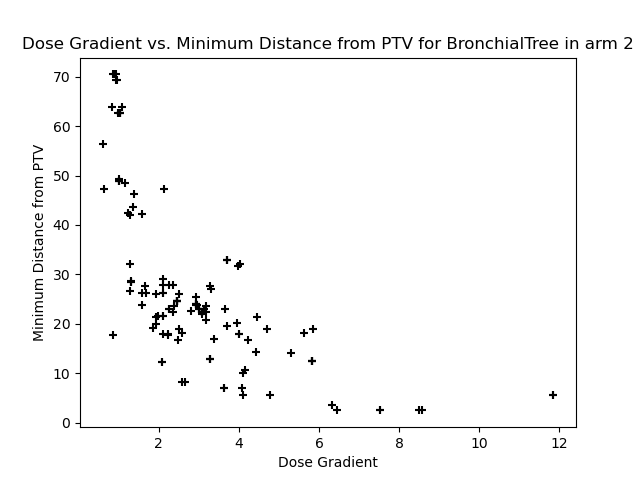
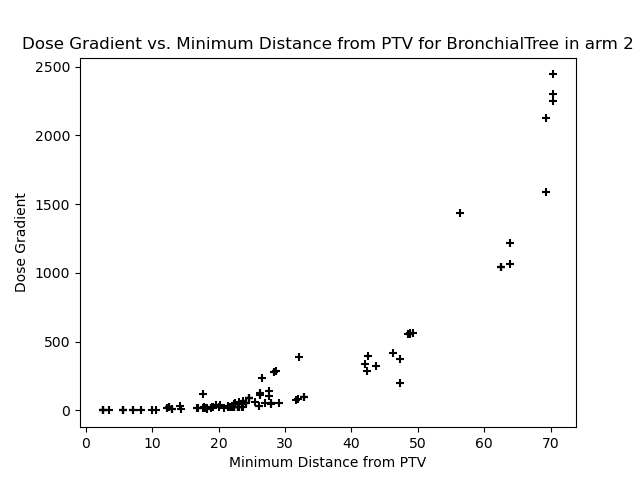
switched mdptv_dg_study axis

diff --git a/data_processing_programs/sspaner_general_hists.py b/data_processing_programs/sspaner_general_hists.py
@@ -11,17 +11,23 @@ file_names_dict = {"V2.0 dosevol":"V2D", "V5.0 dosevol":"V5D","V2.0 dosevol/volu
 final_super_folder = "organ_hists/dosevol"
 for (organ,arm), df_organ in all_data_df.groupby(["Organ_Clean","arm"]):
     for column in columns:
+        if column in ["V2.0 dosevol/volume", "V5.0 dosevol/volume", "V10.0 dosevol/volume"]:
+            continue
         try:
 
             try:
                 Path(f"{final_super_folder}/{organ}").mkdir()
                 print(f"Created {final_super_folder}/{organ}")
             except FileExistsError:
-                print(f"{final_super_folder}/{organ} already exists.")
+                #print(f"{final_super_folder}/{organ} already exists.")
                 pass
             
             planned_data = df_organ.loc[df_organ["Dose_Type"] == "Planned", column].dropna()
             delivered_data = df_organ.loc[df_organ["Dose_Type"] == "Delivered", column].dropna()
+
+            print(f"{organ}, {arm}, {column}, {(planned_data.mean() - delivered_data.mean()):.3f}")
+            continue
+
             fig, ax = plt.subplots()
 
             ax.hist(planned_data, histtype='step', edgecolor='green', label='Planned',density=True)
@@ -44,7 +50,7 @@ for (organ,arm), df_organ in all_data_df.groupby(["Organ_Clean","arm"]):
                 f"Std Dev = {std:.4f}\n"
                 f"Min = {min_val:.4f}\n"
                 f"Max = {max_val:.4f}\n"
-                f"M_Diff = {planned_data.mean() - delivered_data.mean()}"
+                f"M_Diff = {(planned_data.mean() - delivered_data.mean()):3f}"
             )
 
             ax.text(

diff --git a/data_processing_programs/sspaner_mdptv_dg.py b/data_processing_programs/sspaner_mdptv_dg.py
@@ -10,13 +10,13 @@ df = all_data_df[cols].copy()
 
 for (organ, arm), df_ao in df.groupby(['Organ_Clean', 'arm']):
     
-    y = df_ao['DminFromPTV (mm)'].to_numpy()
-    x = df_ao["Max_sqrt(grad(Dose)*Dose)_1"].to_numpy()
-    x = x**2 / df_ao["Max1_Dose"].to_numpy()
+    x = df_ao['DminFromPTV (mm)'].to_numpy()
+    y = df_ao["Max_sqrt(grad(Dose)*Dose)_1"].to_numpy()
+    y = x**2 / df_ao["Max1_Dose"].to_numpy()
     plt.figure()
     plt.scatter(x,y, color='black', marker='+')
-    plt.ylabel('Minimum Distance from PTV')
-    plt.xlabel('Dose Gradient')
+    plt.xlabel('Minimum Distance from PTV')
+    plt.ylabel('Dose Gradient')
     plt.title(f'Dose Gradient vs. Minimum Distance from PTV for {organ} in arm {arm}')
     filename = f'mdptv_dg_study/{organ}_{arm}.png'
     plt.savefig(filename)

diff --git a/data_processing_programs/sspaner_lymphnode_study.py b/data_processing_programs/sspaner_lymphnode_study.py
@@ -2,6 +2,7 @@ import pandas as pd
 import numpy as np
 import matplotlib.pyplot as plt
 from pd3_template import all_data_df
+import sys
 
 lymphnode_df = all_data_df[all_data_df["Organ_Clean"] == "LN"]
 cols = ['V2.0 dosevol','V5.0 dosevol', 'V10.0 dosevol', 'Patient', 'CT#', 'TotalVolume (cm^3)', 'RTOG']
